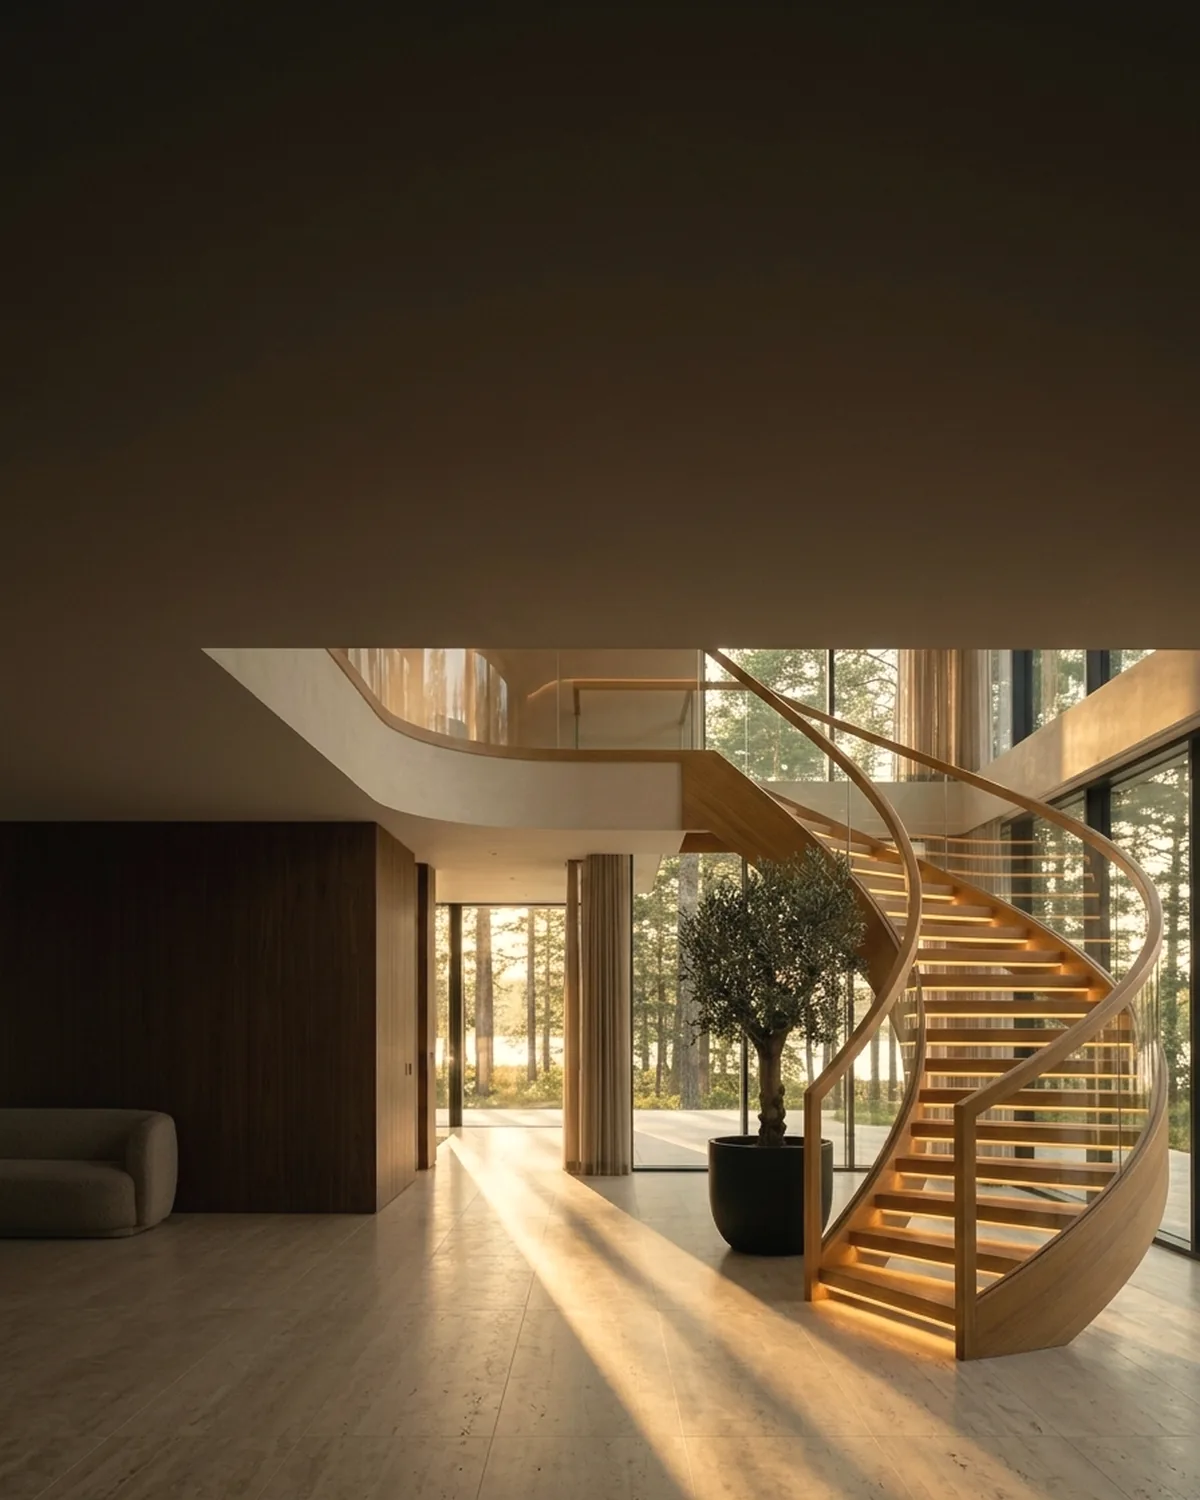
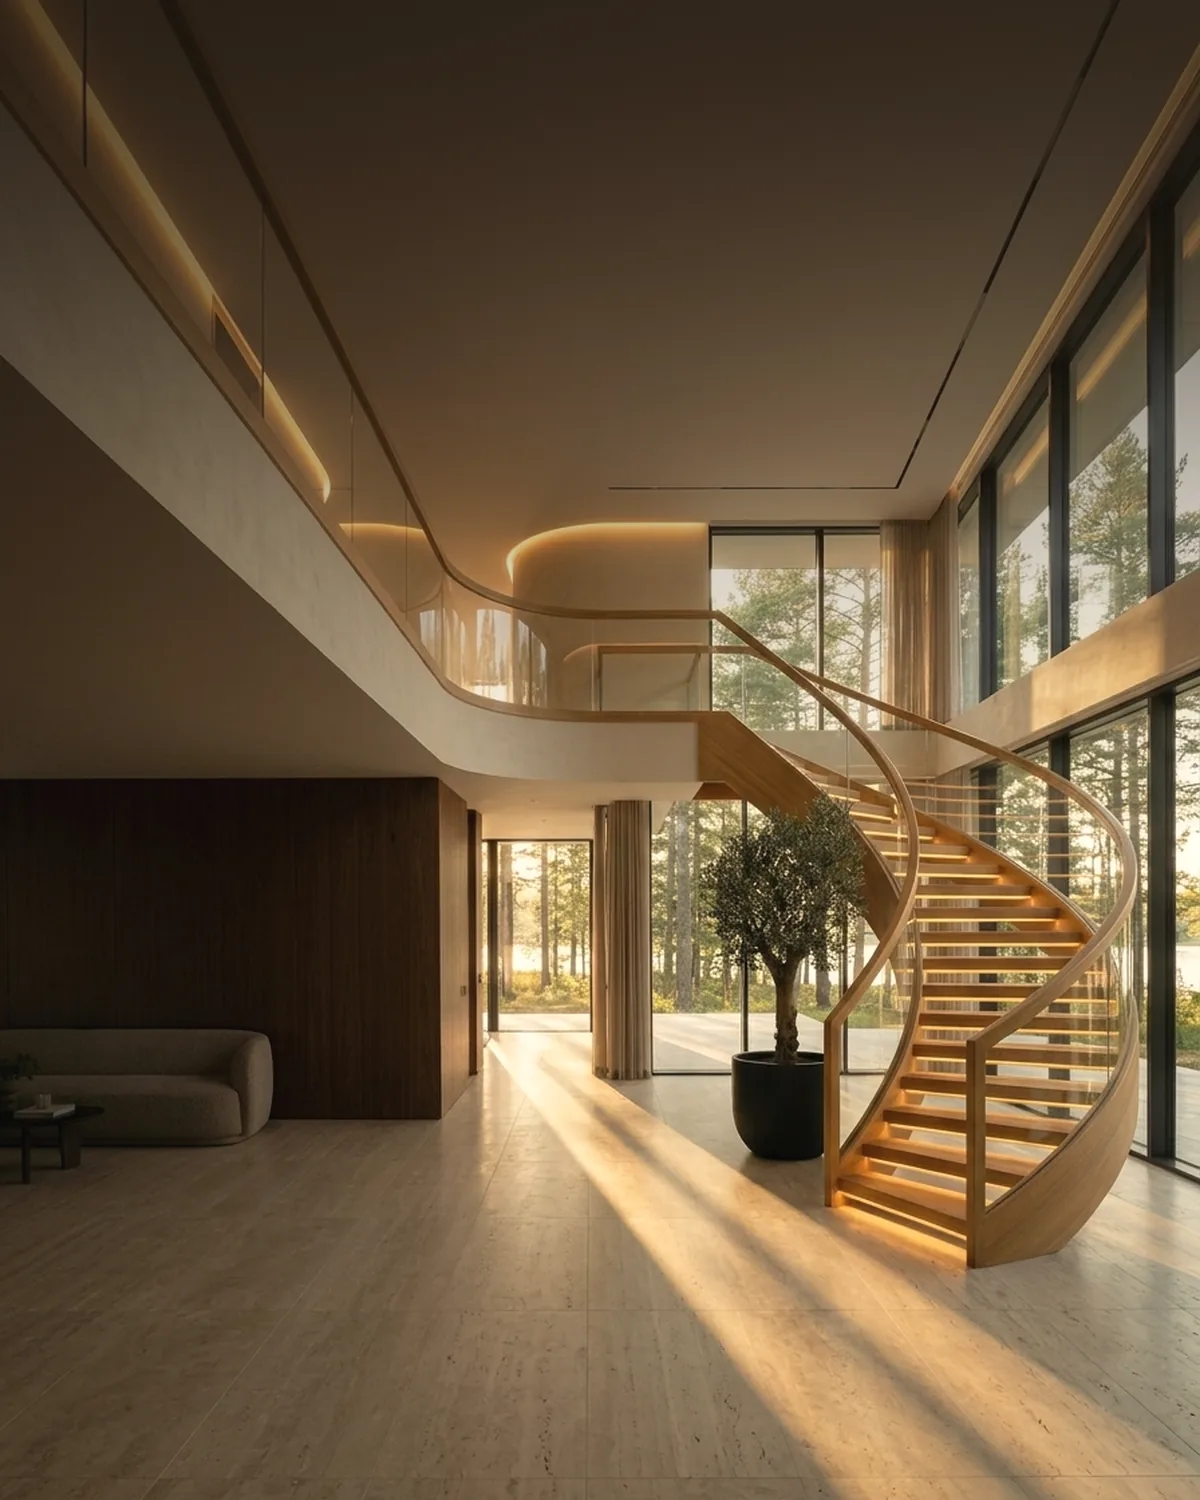
Fix mobile hero image & layout, refine villa collection card typography

diff --git a/dist/index.html b/dist/index.html
@@ -38,8 +38,8 @@ button,input{font:inherit;color:inherit}
 .wrap{width:min(var(--wrap),100% - var(--gut)*2);margin-inline:auto}
 .ic{width:1em;height:1em;flex:none}
 .serif{font-family:var(--f-display);font-weight:400;letter-spacing:-.01em}
-h1,h2,h3{margin:0;font-family:var(--f-display);font-weight:400;letter-spacing:-.015em;line-height:1.08}
-em.s, h2 em, h1 em{font-family:var(--f-script);font-style:normal;font-weight:400;color:var(--caramel);letter-spacing:0;font-size:1.32em;line-height:.6;padding:0 .04em}
+h1,h2,h3{margin:0;font-family:var(--f-display);font-weight:400;letter-spacing:-.015em;line-height:1.12}
+em.s, h2 em, h1 em{display:inline-block;font-family:var(--f-script);font-style:normal;font-weight:400;color:var(--caramel);letter-spacing:0;font-size:1.32em;line-height:.75;padding:.06em .06em 0;margin-top:.04em}
 :focus-visible{outline:2px solid var(--caramel);outline-offset:3px}
 
 /* buttons */
@@ -76,7 +76,8 @@ em.s, h2 em, h1 em{font-family:var(--f-script);font-style:normal;font-weight:400
 /* ============ S1 · HERO ============ */
 .hero{position:relative;height:100vh;height:100svh;min-height:700px;overflow:hidden;background:var(--espresso);color:var(--on-dark)}
 .hero__img{position:absolute;inset:0}
-.hero__img img,.hero__img picture{width:100%;height:100%;object-fit:cover;object-position:62% 50%}
+.hero__img picture{display:block;width:100%;height:100%}
+.hero__img img{width:100%;height:100%;object-fit:cover;object-position:62% 50%}
 .hero__shade{position:absolute;inset:0;background:linear-gradient(90deg,rgba(32,22,14,.86) 0%,rgba(32,22,14,.62) 34%,rgba(32,22,14,.12) 62%,rgba(32,22,14,0) 80%),linear-gradient(0deg,rgba(32,22,14,.55) 0%,rgba(32,22,14,0) 30%)}
 .hero__dim{position:absolute;inset:0;background:#160f09;opacity:0;pointer-events:none}
 .hero__sweep{position:absolute;inset:-20% -60%;pointer-events:none;mix-blend-mode:soft-light;opacity:0;
@@ -95,12 +96,14 @@ em.s, h2 em, h1 em{font-family:var(--f-script);font-style:normal;font-weight:400
 .hero__features li{display:flex;align-items:center;gap:14px;font-size:12px;line-height:1.45;color:rgba(243,236,228,.82)}
 .hero__features .ic{font-size:30px;color:var(--caramel)}
 @media (max-width:767px){
-  .hero{min-height:640px}
-  .hero__shade{background:linear-gradient(180deg,rgba(32,22,14,.82) 0%,rgba(32,22,14,.5) 45%,rgba(32,22,14,.15) 70%,rgba(32,22,14,.6) 100%)}
-  .hero__content{justify-content:flex-start;padding-top:118px;padding-bottom:0}
-  .hero__name{font-size:clamp(60px,18vw,92px)}
-  .hero__tagline{font-size:22px;margin-top:16px}
-  .hero__body{font-size:14px;margin:16px 0 24px;max-width:none}
+  .hero{height:100svh;min-height:680px;max-height:920px}
+  .hero__img img{object-position:58% 62%}
+  .hero__shade{background:linear-gradient(180deg,rgba(24,16,10,.86) 0%,rgba(24,16,10,.68) 32%,rgba(24,16,10,.32) 52%,rgba(24,16,10,.06) 72%,rgba(24,16,10,.48) 100%),linear-gradient(90deg,rgba(24,16,10,.45) 0%,rgba(24,16,10,0) 68%)}
+  .hero__content{justify-content:flex-start;padding-top:92px;padding-bottom:110px}
+  .hero__eyebrow{margin:0 0 10px;font-size:10.5px;letter-spacing:.18em}
+  .hero__name{font-size:clamp(54px,15vw,82px)}
+  .hero__tagline{font-size:clamp(20px,4.8vw,24px);line-height:1.24;margin-top:10px;max-width:380px}
+  .hero__body{font-size:13.5px;line-height:1.62;margin:12px 0 22px;max-width:390px;color:rgba(243,236,228,.86)}
   .hero__features{display:none}
 }
 
@@ -178,12 +181,17 @@ em.s, h2 em, h1 em{font-family:var(--f-script);font-style:normal;font-weight:400
 .vcard__img{aspect-ratio:4/3;overflow:hidden;background:#3a2c21}
 .vcard__img img{width:100%;height:100%;object-fit:cover;transition:transform 1.2s var(--ease)}
 .vcard:hover .vcard__img img{transform:scale(1.06)}
-.vcard__body{display:flex;flex-direction:column;flex:1;padding:18px 20px 20px}
-.vcard__name{font-size:15px;font-weight:500;line-height:1.4}
-.vcard__spec{margin-top:4px;font-size:11.5px;color:var(--ink-soft)}
-.vcard__foot{display:flex;justify-content:space-between;align-items:center;margin-top:auto;padding-top:22px}
-.vcard__price{font-family:var(--f-display);font-size:22px;letter-spacing:-.01em}
-.vcard .dot-arrow{width:32px;height:32px;font-size:15px}
+.vcard__body{display:flex;flex-direction:column;flex:1;padding:20px 22px 22px}
+.vcard__kind{display:block;font-size:11px;font-weight:600;letter-spacing:.14em;text-transform:uppercase;color:var(--caramel-deep);line-height:1.3}
+.vcard__name{margin:6px 0 0;font-family:var(--f-display);font-size:clamp(24px,2.1vw,28px);font-weight:400;line-height:1.18;letter-spacing:-.01em;color:var(--ink)}
+.vcard__spec{display:flex;flex-direction:column;gap:4px;margin-top:12px;font-size:13px;line-height:1.5;color:var(--ink-soft)}
+.vcard__spec span{display:block;white-space:nowrap}
+.vcard__spec .sp-feat{display:inline-flex;align-items:center;gap:7px;color:var(--ink);font-weight:500;opacity:.85}
+.vcard__spec .sp-feat::before{content:"";width:12px;height:1px;background:var(--caramel-deep);flex:none}
+.vcard__foot{display:flex;justify-content:space-between;align-items:center;margin-top:auto;padding-top:16px;margin-top:18px;border-top:1px solid var(--line)}
+.vcard__price{display:inline-flex;align-items:baseline;gap:6px;font-family:var(--f-display);font-size:clamp(24px,2vw,27px);font-weight:400;line-height:1;letter-spacing:-.01em;color:var(--ink);font-variant-numeric:lining-nums}
+.vcard__price small{font-family:var(--f-body);font-size:12px;font-weight:500;letter-spacing:.04em;color:var(--ink-soft)}
+.vcard .dot-arrow{width:34px;height:34px;font-size:15px;flex:none}
 .vcard:hover .dot-arrow{transform:rotate(-45deg);background:var(--caramel-deep)}
 .note{margin:14px 0 0;text-align:right;font-size:11px;color:var(--ink-soft)}
 .banner{position:relative;margin-top:40px;border-radius:var(--r-xl);overflow:hidden;background:var(--espresso);color:var(--on-dark);box-shadow:var(--shadow)}
@@ -191,14 +199,14 @@ em.s, h2 em, h1 em{font-family:var(--f-script);font-style:normal;font-weight:400
 .banner__img img{width:100%;height:100%;object-fit:cover;object-position:70% 50%}
 .banner__shade{position:absolute;inset:0;background:linear-gradient(90deg,rgba(36,26,18,.97) 0%,rgba(36,26,18,.9) 36%,rgba(36,26,18,.45) 70%,rgba(36,26,18,.55) 100%)}
 .banner__in{position:relative;display:grid;grid-template-columns:minmax(0,1fr) minmax(0,1.05fr);gap:40px;align-items:center;padding:clamp(32px,4vw,52px) clamp(24px,4.4vw,60px)}
-.banner h2{font-size:clamp(30px,2.8vw,42px);line-height:1.12}
+.banner h2{font-size:clamp(30px,2.8vw,42px);line-height:1.18}
 .banner p{margin:14px 0 26px;max-width:430px;font-size:14px;line-height:1.7;color:rgba(243,236,228,.8)}
 .steps{list-style:none;margin:0;padding:0;display:flex;justify-content:center;gap:clamp(24px,4vw,64px)}
 .steps li{display:flex;flex-direction:column;align-items:center;gap:14px;text-align:center;font-size:12.5px;line-height:1.45;color:rgba(243,236,228,.86)}
 .steps .ic{font-size:44px;color:var(--caramel);stroke-width:1}
 @media (max-width:1100px){ .grid4{grid-template-columns:repeat(2,minmax(0,1fr))} }
 @media (max-width:860px){ .banner__in{grid-template-columns:1fr} .steps{justify-content:flex-start} }
-@media (max-width:560px){ .grid4{grid-template-columns:1fr} .sec-head{flex-direction:column;align-items:flex-start} .steps{gap:18px} .steps .ic{font-size:36px} }
+@media (max-width:560px){ .grid4{grid-template-columns:1fr} .sec-head{flex-direction:column;align-items:flex-start;gap:10px} .steps{gap:18px} .steps .ic{font-size:36px} }
 
 /* ============ S5 · INVITE ============ */
 .invite{position:relative;margin-top:clamp(64px,7vw,96px);background:linear-gradient(180deg,var(--cream) 0 62%,var(--footer) 62% 100%)}
@@ -291,7 +299,7 @@ em.s, h2 em, h1 em{font-family:var(--f-script);font-style:normal;font-weight:400
   <div class="hero__sweep" id="sweep"></div>
   <div class="hero__dim" id="heroDim"></div>
   <div class="wrap hero__content" id="heroContent">
-    <p class="hero__eyebrow h-in">Biệt thự đồi thông ven hồ · Bộ sưu tập 2027</p>
+    <p class="hero__eyebrow">Biệt thự đồi thông ven hồ · Bộ sưu tập 2027</p>
     <h1 class="hero__name" aria-label="Mộc Viên">
       <span class="mask" aria-hidden="true"><span><span class="n1">Mộc</span> <span class="n2" id="nameScript">Viên</span></span></span>
     </h1>
@@ -383,33 +391,61 @@ em.s, h2 em, h1 em{font-family:var(--f-script);font-style:normal;font-weight:400
       <a class="vcard" href="#invite">
         <div class="vcard__img"><img src="assets/villa-1.webp" alt="Biệt thự đơn lập Ven Hồ với hiên gỗ chạy ra mặt nước" width="1200" height="900" loading="lazy" decoding="async"></div>
         <div class="vcard__body">
-          <div class="vcard__name">Biệt thự đơn lập<br>«Ven Hồ»</div>
-          <div class="vcard__spec">1–2 tầng · 420–520 m² đất · Bến gỗ riêng</div>
-          <div class="vcard__foot"><span class="vcard__price">từ 38 tỷ</span><span class="dot-arrow"><svg class="ic " viewBox="0 0 24 24" fill="none" stroke="currentColor" stroke-width="1.2" stroke-linecap="round" stroke-linejoin="round" aria-hidden="true"><path d="M5 12h14M13.5 6.5 19 12l-5.5 5.5"/></svg></span></div>
+          <span class="vcard__kind">Biệt thự đơn lập</span>
+          <h3 class="vcard__name">Ven Hồ</h3>
+          <div class="vcard__spec">
+            <span>1–2 tầng · 420–520 m² đất</span>
+            <span class="sp-feat">Bến gỗ riêng</span>
+          </div>
+          <div class="vcard__foot">
+            <span class="vcard__price"><small>từ</small>38 tỷ</span>
+            <span class="dot-arrow"><svg class="ic " viewBox="0 0 24 24" fill="none" stroke="currentColor" stroke-width="1.2" stroke-linecap="round" stroke-linejoin="round" aria-hidden="true"><path d="M5 12h14M13.5 6.5 19 12l-5.5 5.5"/></svg></span>
+          </div>
         </div>
       </a>
       <a class="vcard" href="#invite">
         <div class="vcard__img"><img src="assets/villa-2.webp" alt="Biệt thự Tùng Lâm hai tầng vươn ra sườn đồi giữa rừng thông" width="1200" height="900" loading="lazy" decoding="async"></div>
         <div class="vcard__body">
-          <div class="vcard__name">Biệt thự sườn đồi<br>«Tùng Lâm»</div>
-          <div class="vcard__spec">2 tầng · 380–460 m² đất · Hiên treo</div>
-          <div class="vcard__foot"><span class="vcard__price">từ 32 tỷ</span><span class="dot-arrow"><svg class="ic " viewBox="0 0 24 24" fill="none" stroke="currentColor" stroke-width="1.2" stroke-linecap="round" stroke-linejoin="round" aria-hidden="true"><path d="M5 12h14M13.5 6.5 19 12l-5.5 5.5"/></svg></span></div>
+          <span class="vcard__kind">Biệt thự sườn đồi</span>
+          <h3 class="vcard__name">Tùng Lâm</h3>
+          <div class="vcard__spec">
+            <span>2 tầng · 380–460 m² đất</span>
+            <span class="sp-feat">Hiên treo</span>
+          </div>
+          <div class="vcard__foot">
+            <span class="vcard__price"><small>từ</small>32 tỷ</span>
+            <span class="dot-arrow"><svg class="ic " viewBox="0 0 24 24" fill="none" stroke="currentColor" stroke-width="1.2" stroke-linecap="round" stroke-linejoin="round" aria-hidden="true"><path d="M5 12h14M13.5 6.5 19 12l-5.5 5.5"/></svg></span>
+          </div>
         </div>
       </a>
       <a class="vcard" href="#invite">
         <div class="vcard__img"><img src="assets/villa-3.webp" alt="Cặp biệt thự song lập Song Mộc đối xứng quanh một khu vườn" width="1200" height="900" loading="lazy" decoding="async"></div>
         <div class="vcard__body">
-          <div class="vcard__name">Biệt thự song lập<br>«Song Mộc»</div>
-          <div class="vcard__spec">2 tầng · 260–300 m² đất · Vườn chung</div>
-          <div class="vcard__foot"><span class="vcard__price">từ 24 tỷ</span><span class="dot-arrow"><svg class="ic " viewBox="0 0 24 24" fill="none" stroke="currentColor" stroke-width="1.2" stroke-linecap="round" stroke-linejoin="round" aria-hidden="true"><path d="M5 12h14M13.5 6.5 19 12l-5.5 5.5"/></svg></span></div>
+          <span class="vcard__kind">Biệt thự song lập</span>
+          <h3 class="vcard__name">Song Mộc</h3>
+          <div class="vcard__spec">
+            <span>2 tầng · 260–300 m² đất</span>
+            <span class="sp-feat">Vườn chung</span>
+          </div>
+          <div class="vcard__foot">
+            <span class="vcard__price"><small>từ</small>24 tỷ</span>
+            <span class="dot-arrow"><svg class="ic " viewBox="0 0 24 24" fill="none" stroke="currentColor" stroke-width="1.2" stroke-linecap="round" stroke-linejoin="round" aria-hidden="true"><path d="M5 12h14M13.5 6.5 19 12l-5.5 5.5"/></svg></span>
+          </div>
         </div>
       </a>
       <a class="vcard" href="#invite">
         <div class="vcard__img"><img src="assets/villa-4.webp" alt="Dinh thự Đại Viên với hành lang vòm và sân trong" width="1200" height="900" loading="lazy" decoding="async"></div>
         <div class="vcard__body">
-          <div class="vcard__name">Dinh thự<br>«Đại Viên»</div>
-          <div class="vcard__spec">2 tầng · 900+ m² đất · Sân trong & loggia</div>
-          <div class="vcard__foot"><span class="vcard__price">từ 85 tỷ</span><span class="dot-arrow"><svg class="ic " viewBox="0 0 24 24" fill="none" stroke="currentColor" stroke-width="1.2" stroke-linecap="round" stroke-linejoin="round" aria-hidden="true"><path d="M5 12h14M13.5 6.5 19 12l-5.5 5.5"/></svg></span></div>
+          <span class="vcard__kind">Dinh thự</span>
+          <h3 class="vcard__name">Đại Viên</h3>
+          <div class="vcard__spec">
+            <span>2 tầng · 900+ m² đất</span>
+            <span class="sp-feat">Sân trong & loggia</span>
+          </div>
+          <div class="vcard__foot">
+            <span class="vcard__price"><small>từ</small>85 tỷ</span>
+            <span class="dot-arrow"><svg class="ic " viewBox="0 0 24 24" fill="none" stroke="currentColor" stroke-width="1.2" stroke-linecap="round" stroke-linejoin="round" aria-hidden="true"><path d="M5 12h14M13.5 6.5 19 12l-5.5 5.5"/></svg></span>
+          </div>
         </div>
       </a>
     </div>
